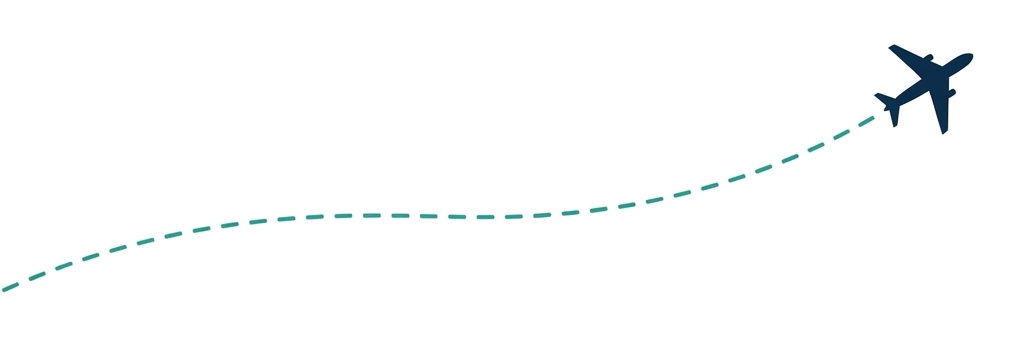
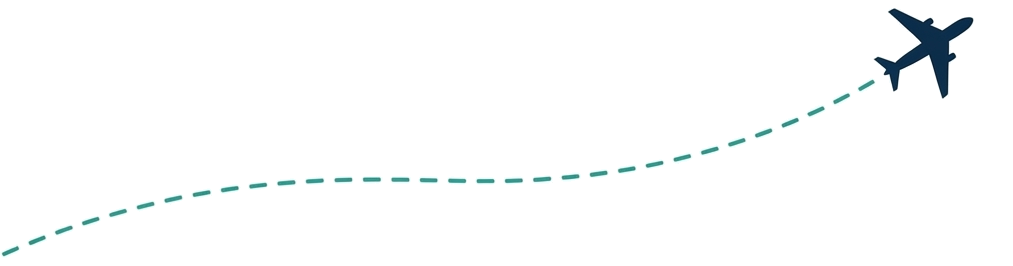
feat: adjust image dimensions and remove unused email preview template

diff --git a/lib/dem/air-market-template.ts b/lib/dem/air-market-template.ts
@@ -52,9 +52,11 @@ export const AIR_MARKET_PRESET = {
                  l'immagine non carica, la riga si richiude senza lasciare
                  buchi ne' icone di errore.
                - Nessun attributo height: se l'immagine e' bloccata la riga
-                 collassa invece di riservare 200px vuoti.
-               - Il file e' 1013px di larghezza ma mostrato a 600: resta nitido
-                 anche sugli schermi a doppia densita'. -->
+                 collassa invece di riservare spazio vuoto.
+               - Il file e' 1013x266 ma mostrato a 600 di larghezza (158 di
+                 altezza): resta nitido anche sugli schermi a doppia densita'.
+                 Ritagliato a banda larga di proposito: quadrato sarebbe alto
+                 600px e spingerebbe il gancio fuori dalla prima schermata. -->
           <tr>
             <td align="center" style="padding:0;line-height:0;font-size:0;">
               <img src="https://www.4bid.it/dem/aereo-rotta.png" alt="" width="600" style="display:block;width:100%;max-width:600px;height:auto;border:0;margin:0;" />
